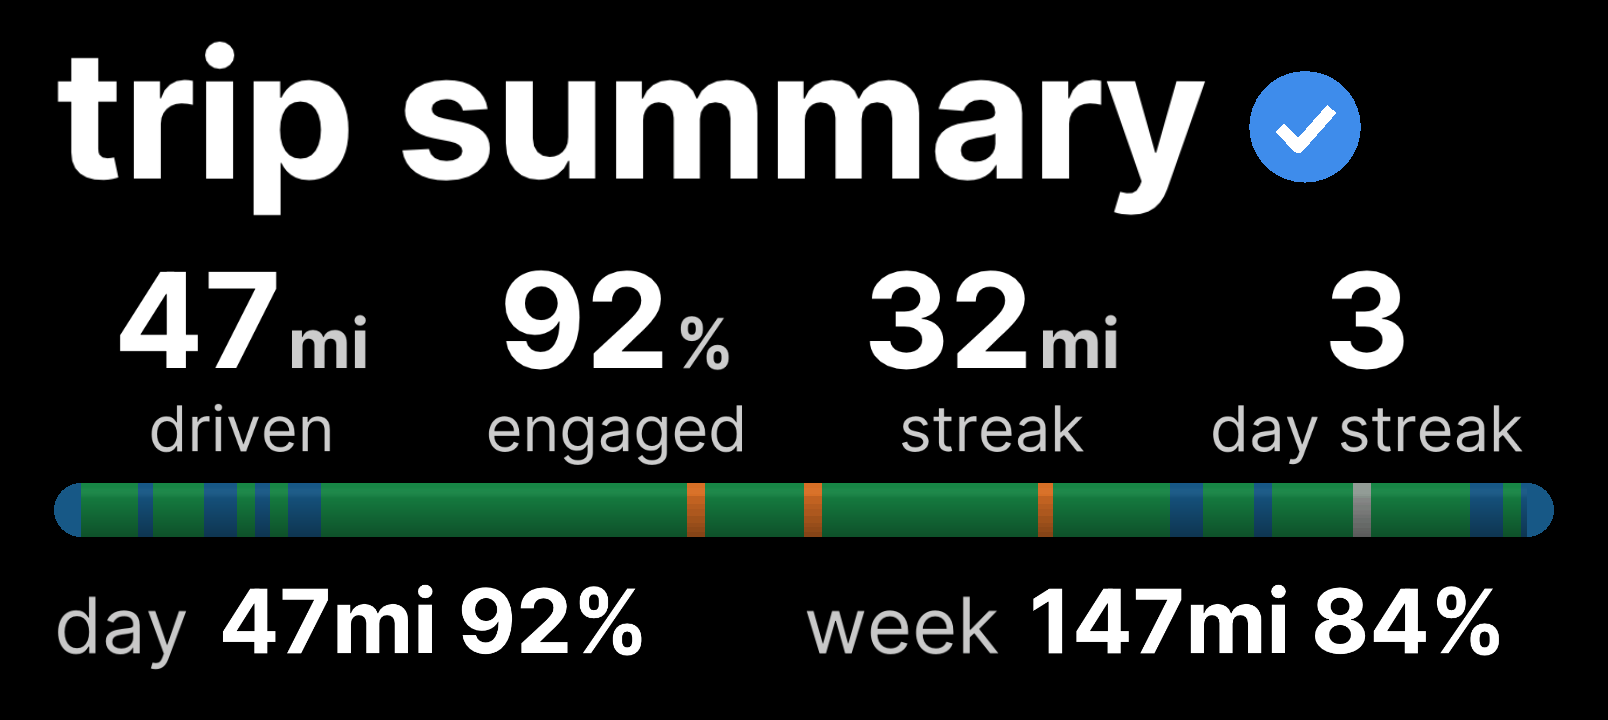
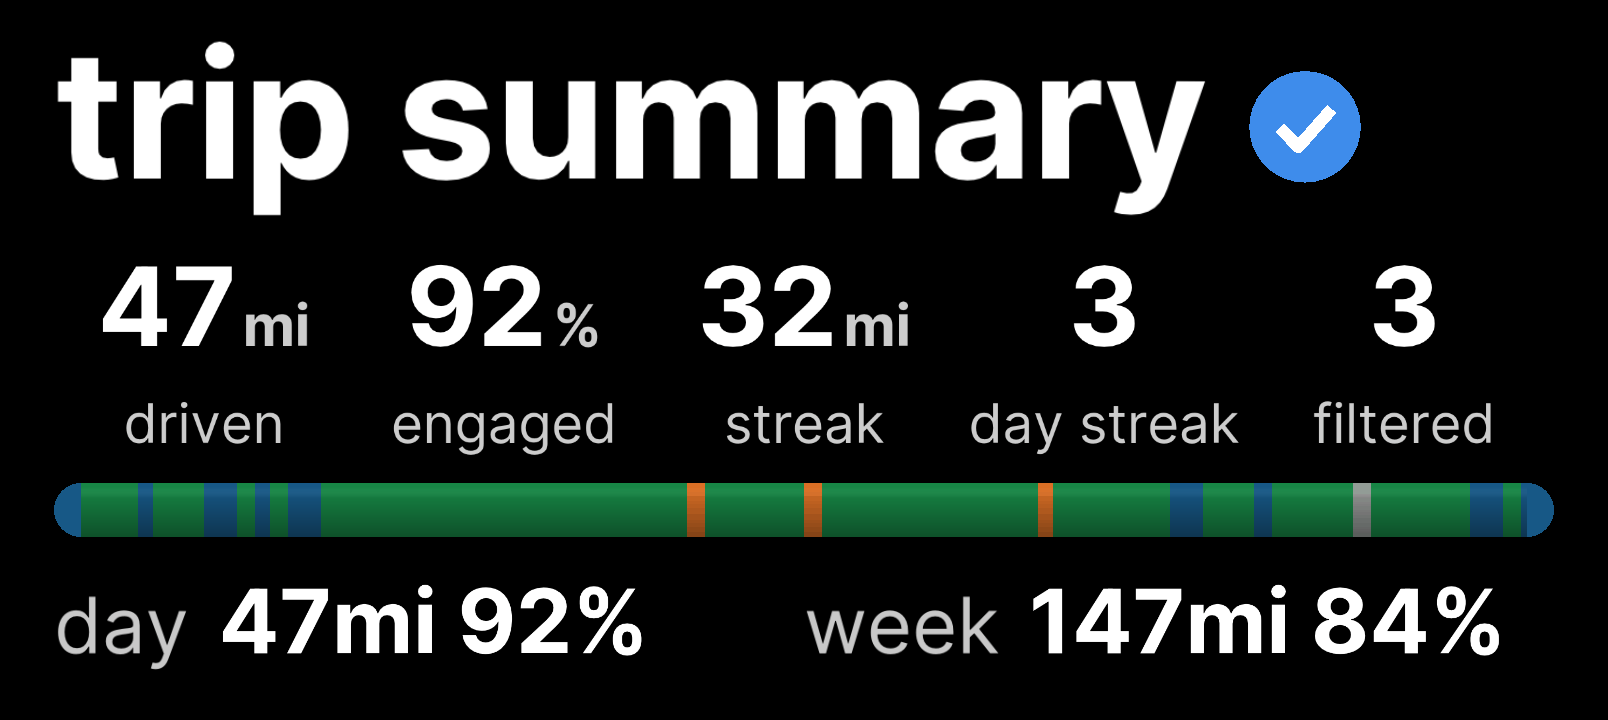
README: Nav2Pilot section and rebased screenshots

Changed region(s): [[0.0622, 0.3667, 0.7152, 0.5194], [0.0622, 0.55, 0.9639, 0.6417], [0.8085, 0.3667, 0.9017, 0.5194]]

diff --git a/README.md b/README.md
@@ -119,11 +119,25 @@ On by default. If Tesla Autosteer, FSD, or Summon is selected or active, TeslaPi
 
 ![Onroad, Tesla theme with compass](docs/screenshots/onroad-tesla.jpg)
 
+### Navigation, turn desires, and steering dropouts
+
+Credit: [cristianku](https://github.com/cristianku)'s [Nav2Pilot](https://github.com/cristianku/nav2pilot) app ([iOS](https://github.com/cristianku/nav2pilot-ios)) and [nav-alpha](https://github.com/cristianku/openpilot/tree/nav-alpha) overlay, and turn desires from [FrogAi](https://github.com/FrogAi)'s [FrogPilot](https://github.com/FrogAi/FrogPilot), as carried in [StarPilotHQ/StarPilot](https://github.com/StarPilotHQ/StarPilot). Ported by [Memberoffoxhound](https://github.com/Memberoffoxhound).
+
+Send a destination with stops from the Nav2Pilot app. On the comma, turn on **Settings → developer → navigation (alpha)**. Sign in to the app with a token from [jwt.comma.ai](https://jwt.comma.ai), using the account your comma is paired to. If you don't have comma prime, enter a public Mapbox token in the app (it starts with `pk.`). The app stores it in the `MapboxToken` param, which is never logged and is never kept in git. Without prime, the route still works, but the map tiles may stay black. Going offroad (shifting into Park on a Tesla) clears the destination, so send it again before the next drive. This is on-screen guidance only; it doesn't steer the car through turns.
+
+![Onroad with Nav2Pilot guidance](docs/screenshots/onroad-nav.jpg)
+
+![Onroad navigation with MADS](docs/screenshots/onroad-nav-mads.jpg)
+
+**Turn desires** is off by default. Turn it on in **Settings → driving → turn desires**. Signal anytime below 45 mph as you approach a turn. Once you slow under 20 mph, the model takes the turn. At a red light it holds until you stop or cancel the blinker. It doesn't check the blind spot (similar to StarPilot). At 45 mph and up, the blinker still means a lane change.
+
+If the Tesla steering-column 0x129 message drops out for 1.2 seconds or less, openpilot keeps steering to the plan. Longer dropouts disengage like before, and panda safety is unchanged. A new "filtered" column in the drive summary counts dropouts that recovered.
+
 ### Drive stats, kept on your device
 
 Your drive stats stay on the comma and nothing gets uploaded. On a Tesla, **go offroad in park** is on by default if you haven't set it; you can change it in **Settings → driving**. On other cars it stays off until you turn it on. There's a note below on why a Tesla needs this.
 
-**Trip summary card.** When a drive ends, you get a card with the distance, percent engaged, streak, day streak, and a timeline of the drive in comma connect's colors. It stays up for 20 seconds or until you tap it, then goes to Home. Swipe back to see it again any time before your next drive.
+**Trip summary card.** When a drive ends, you get a card with the distance, percent engaged, streak, day streak, how many steering-sensor dropouts were filtered, and a timeline of the drive in comma connect's colors. It stays up for 20 seconds or until you tap it, then goes to Home. Swipe back to see it again any time before your next drive.
 
 ![Trip summary card](docs/screenshots/trip-card.png)
 
@@ -196,7 +210,9 @@ TeslaPilot is built on the work of these people and projects. Thank you!
 | Jetlink big model | Zeph Leggett / zoompilot (MIT) | [zoompilot/jetlink](https://github.com/zoompilot/jetlink), [zoompilot/zoompilot](https://github.com/zoompilot/zoompilot) |
 | Model manager, chestnut models, `SPTGPLN1` loader, models UI | zoompilot's wiring of sunnypilot's model manager and plain tinygrad loader | [zoompilot/zoompilot](https://github.com/zoompilot/zoompilot), [sunnypilot/sunnypilot](https://github.com/sunnypilot/sunnypilot) |
 | MADS | sunnypilot | [sunnypilot/sunnypilot](https://github.com/sunnypilot/sunnypilot), [sunnypilot/opendbc](https://github.com/sunnypilot/opendbc), [sunnypilot/panda](https://github.com/sunnypilot/panda) |
-| Step aside, fingerprint fallback, Tesla theme, drive stats, web page | Memberoffoxhound | [TeslaPilot](https://github.com/Memberoffoxhound/TeslaPilot) |
+| Nav2Pilot and nav-alpha overlay | cristianku, ported by Memberoffoxhound | [cristianku/nav2pilot](https://github.com/cristianku/nav2pilot), [nav-alpha](https://github.com/cristianku/openpilot/tree/nav-alpha) |
+| Turn desires | FrogAi / FrogPilot, as carried in StarPilotHQ/StarPilot, ported by Memberoffoxhound | [FrogAi/FrogPilot](https://github.com/FrogAi/FrogPilot), [StarPilotHQ/StarPilot](https://github.com/StarPilotHQ/StarPilot) |
+| Step aside, fingerprint fallback, Tesla theme, drive stats, web page, 0x129 grace window | Memberoffoxhound | [TeslaPilot](https://github.com/Memberoffoxhound/TeslaPilot) |
 | TESLA font (wordmark) | KAYOver, based on TeslaNikolaCaps by Shane Milburn | [dafont](https://www.dafont.com/tesla.font) |
 | Inter font | Rasmus Andersson | [rsms/inter](https://github.com/rsms/inter) |
 | Time zone table (`tzgrid.bin`) | timezone-boundary-builder by Evan Siroky, from OpenStreetMap data | [evansiroky/timezone-boundary-builder](https://github.com/evansiroky/timezone-boundary-builder) |

diff --git a/docs/screenshots/README.md b/docs/screenshots/README.md
@@ -3,16 +3,21 @@
 Images used in the root [README](../../README.md).
 
 The onroad, trip summary, Home, and Statistics stills were rendered at 3x scale from public route
-`3e2de7ed673817c2/00000076--63bd4c94a4` (Oct 29, 2026), replayed through the device UI code on
-Highland-Dev `e8681d627` (version 0.11.24). The lead car marker is hidden in the onroad render.
-The Settings stills are headless renders of the same UI. The demo GIF is from an earlier render
-of the same route.
+`3e2de7ed673817c2/00000076--63bd4c94a4` (Oct 29, 2026), replayed through the device UI code.
+The lead car marker is hidden in the onroad render. The Settings stills are headless renders of
+the same UI. The Home, Statistics, Settings, and non-nav onroad stills are from Highland-Dev
+0.11.24. The trip summary card and the onroad navigation stills were re-rendered from the rebased
+`mike` tip at 3x scale. The card uses lowercase day and week labels and includes the filtered
+column, with a count of 3 recovered steering-sensor dropouts. The demo GIF is from an earlier
+render of the same route.
 
 | File | Shot |
 |---|---|
 | `teslapilot-demo.gif` | Onroad Tesla theme with compass, trip summary card, Home, swipe back |
 | `onroad-tesla.jpg` | Custom onroad UI, Tesla blue lanes, small compass |
-| `trip-card.png` | Trip summary card |
+| `onroad-nav.jpg` | Custom onroad UI with Nav2Pilot guidance, Tesla blue route |
+| `onroad-nav-mads.jpg` | Same nav layout with MADS steering and the desire path |
+| `trip-card.png` | Trip summary card, including the filtered column |
 | `home-stats.png` | Home with day and week stats, version 0.11.24 |
 | `settings.png` | Settings, with driving where toggles used to be |
 | `settings-driving.png` | Settings → driving, lowercase labels |
